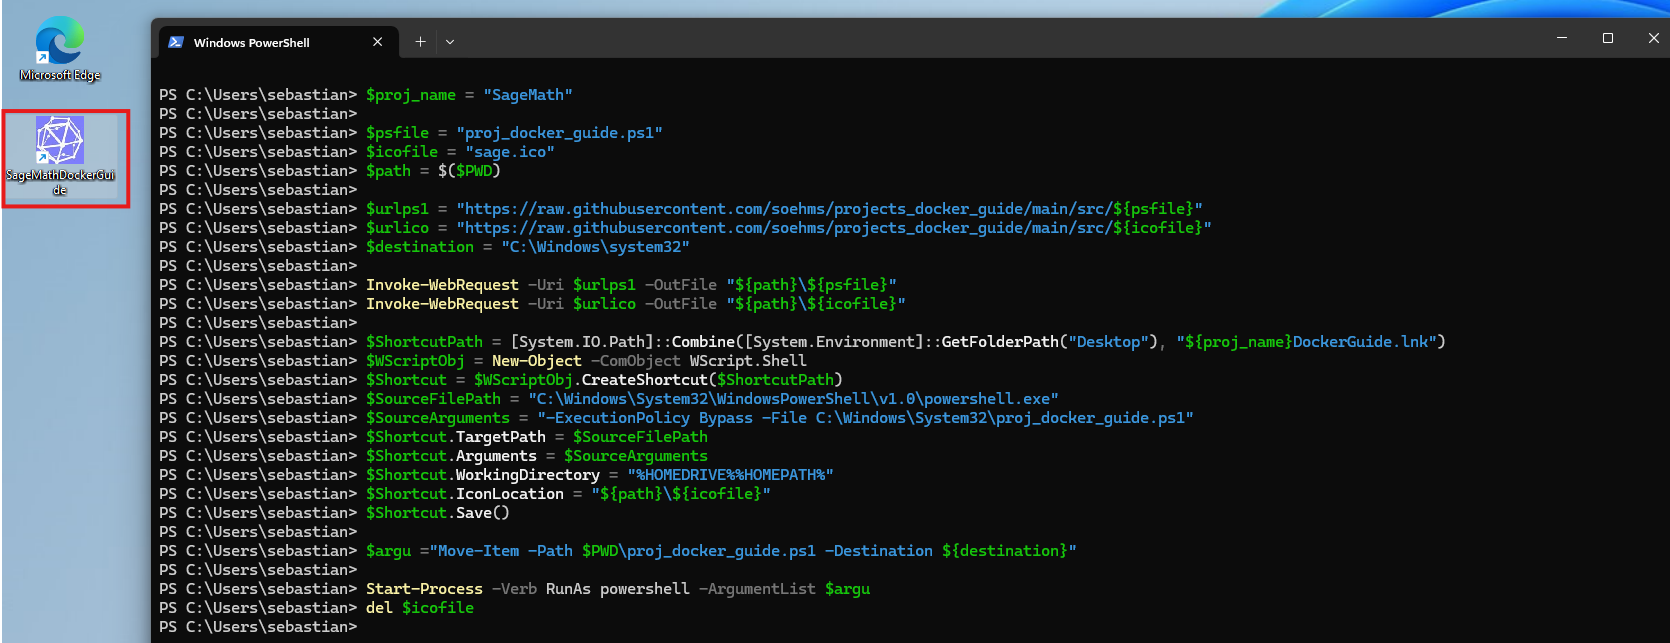
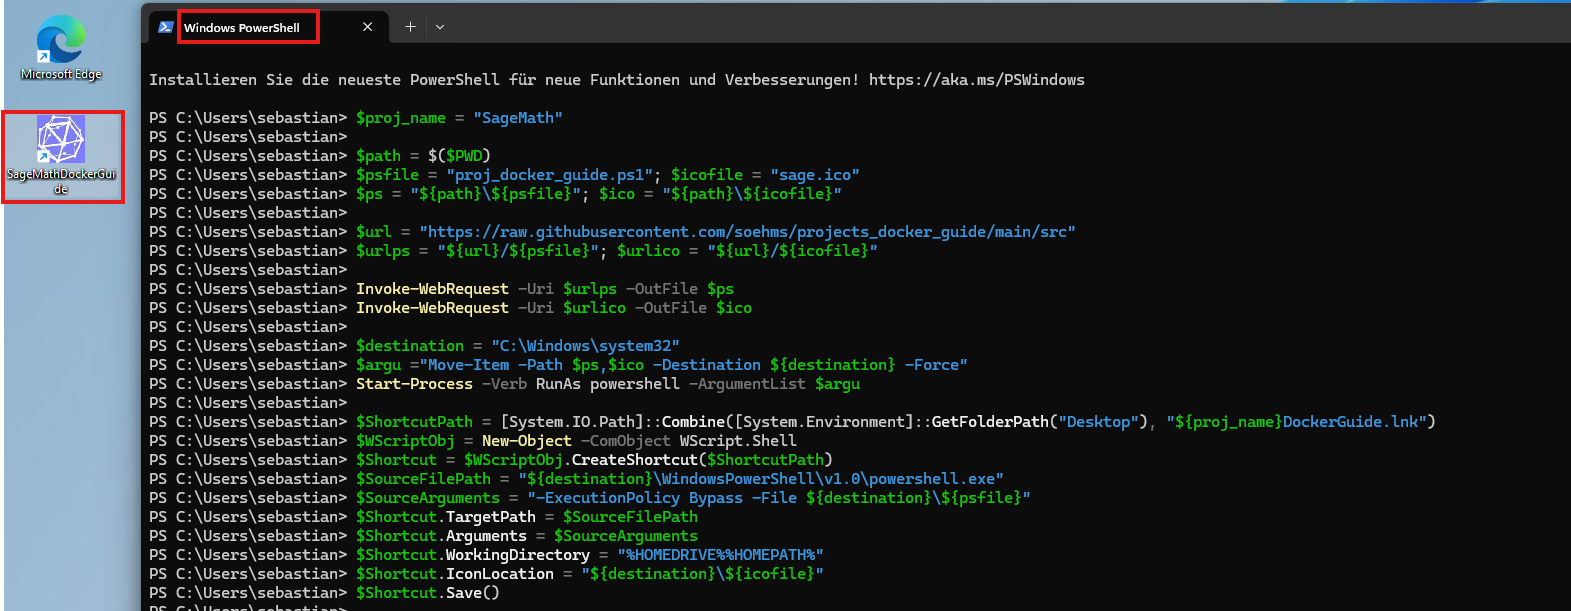
Fix install script

Changed region(s): [[0.0, 0.0311, 0.9045, 1.0], [0.0624, 0.0, 1.0, 0.0933]]

diff --git a/README.md b/README.md
@@ -37,13 +37,13 @@ Please note that this is a pre-release version. Use at your own risk.
 
 ## 1. Installation <a name="1."></a>
 
-The installer does not have a digital signature yet, so you should carefully check if [its contents](https://raw.githubusercontent.com/soehms/projects_docker_guide/refs/heads/main/src/proj_docker_guide_installer.ps1) match the 22 lines of code shown in the last screenshot of this section.
+The installer does not have a digital signature yet, so you should carefully check if [its contents](https://raw.githubusercontent.com/soehms/projects_docker_guide/refs/heads/main/src/proj_docker_guide_installer.ps1) match the 21 lines of code shown in the last screenshot of this section.
 
 If so, open a Powershell terminal. To do this, press the Windows key and type the word *Powershell* in the search box. Just click on the suggested app (sorry for german text in the screenshots):
 
 ![Launch Powershell](screenshots/LaunchPowershell.png)
 
-Paste the copied 22 lines of code into the Powershell terminal and accept the warnings that appear.
+Paste the copied 21 lines of code into the Powershell terminal and accept the warnings that appear.
 
 ![Paste into Powershell](screenshots/PowershellPaste.png)
 
